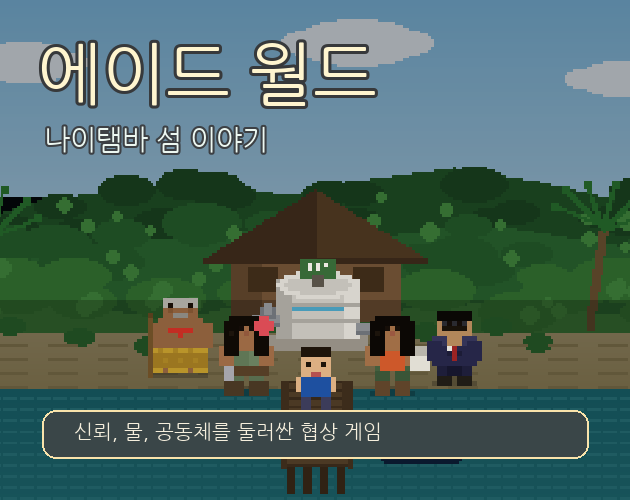
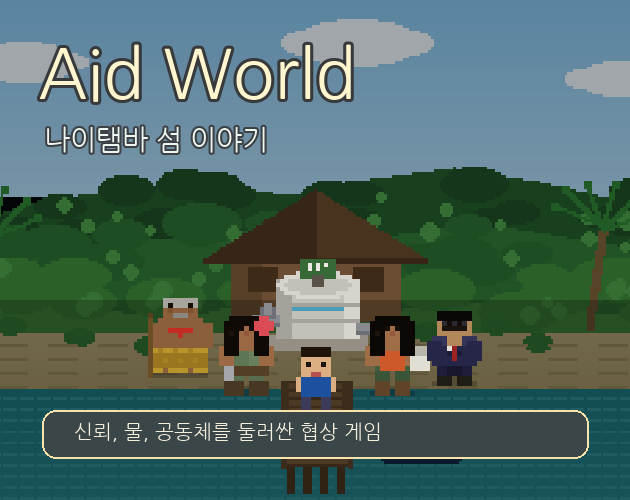
Use English title on Korean itch cover

Changed region(s): [[0.0603, 0.06, 0.6032, 0.24]]

diff --git a/scripts/tools/build_itch_page_assets.py b/scripts/tools/build_itch_page_assets.py
@@ -165,7 +165,7 @@ def make_cover_ko():
     title_font = font(68)
     sub_font = font(28)
     tag_font = font(20)
-    draw.text((38, 40), "에이드 월드", fill=(255, 245, 207, 255), font=title_font, stroke_width=3, stroke_fill=(24, 26, 28, 220))
+    draw.text((38, 40), "Aid World", fill=(255, 245, 207, 255), font=title_font, stroke_width=3, stroke_fill=(24, 26, 28, 220))
     draw.text((44, 126), "나이탬바 섬 이야기", fill=(236, 247, 241, 255), font=sub_font, stroke_width=2, stroke_fill=(20, 24, 28, 210))
     draw.rounded_rectangle((42, 410, 588, 458), radius=14, fill=(17, 31, 34, 210), outline=(247, 213, 129, 170), width=2)
     draw.text((74, 421), "신뢰, 물, 공동체를 둘러싼 협상 게임", fill=(245, 239, 221, 255), font=tag_font)